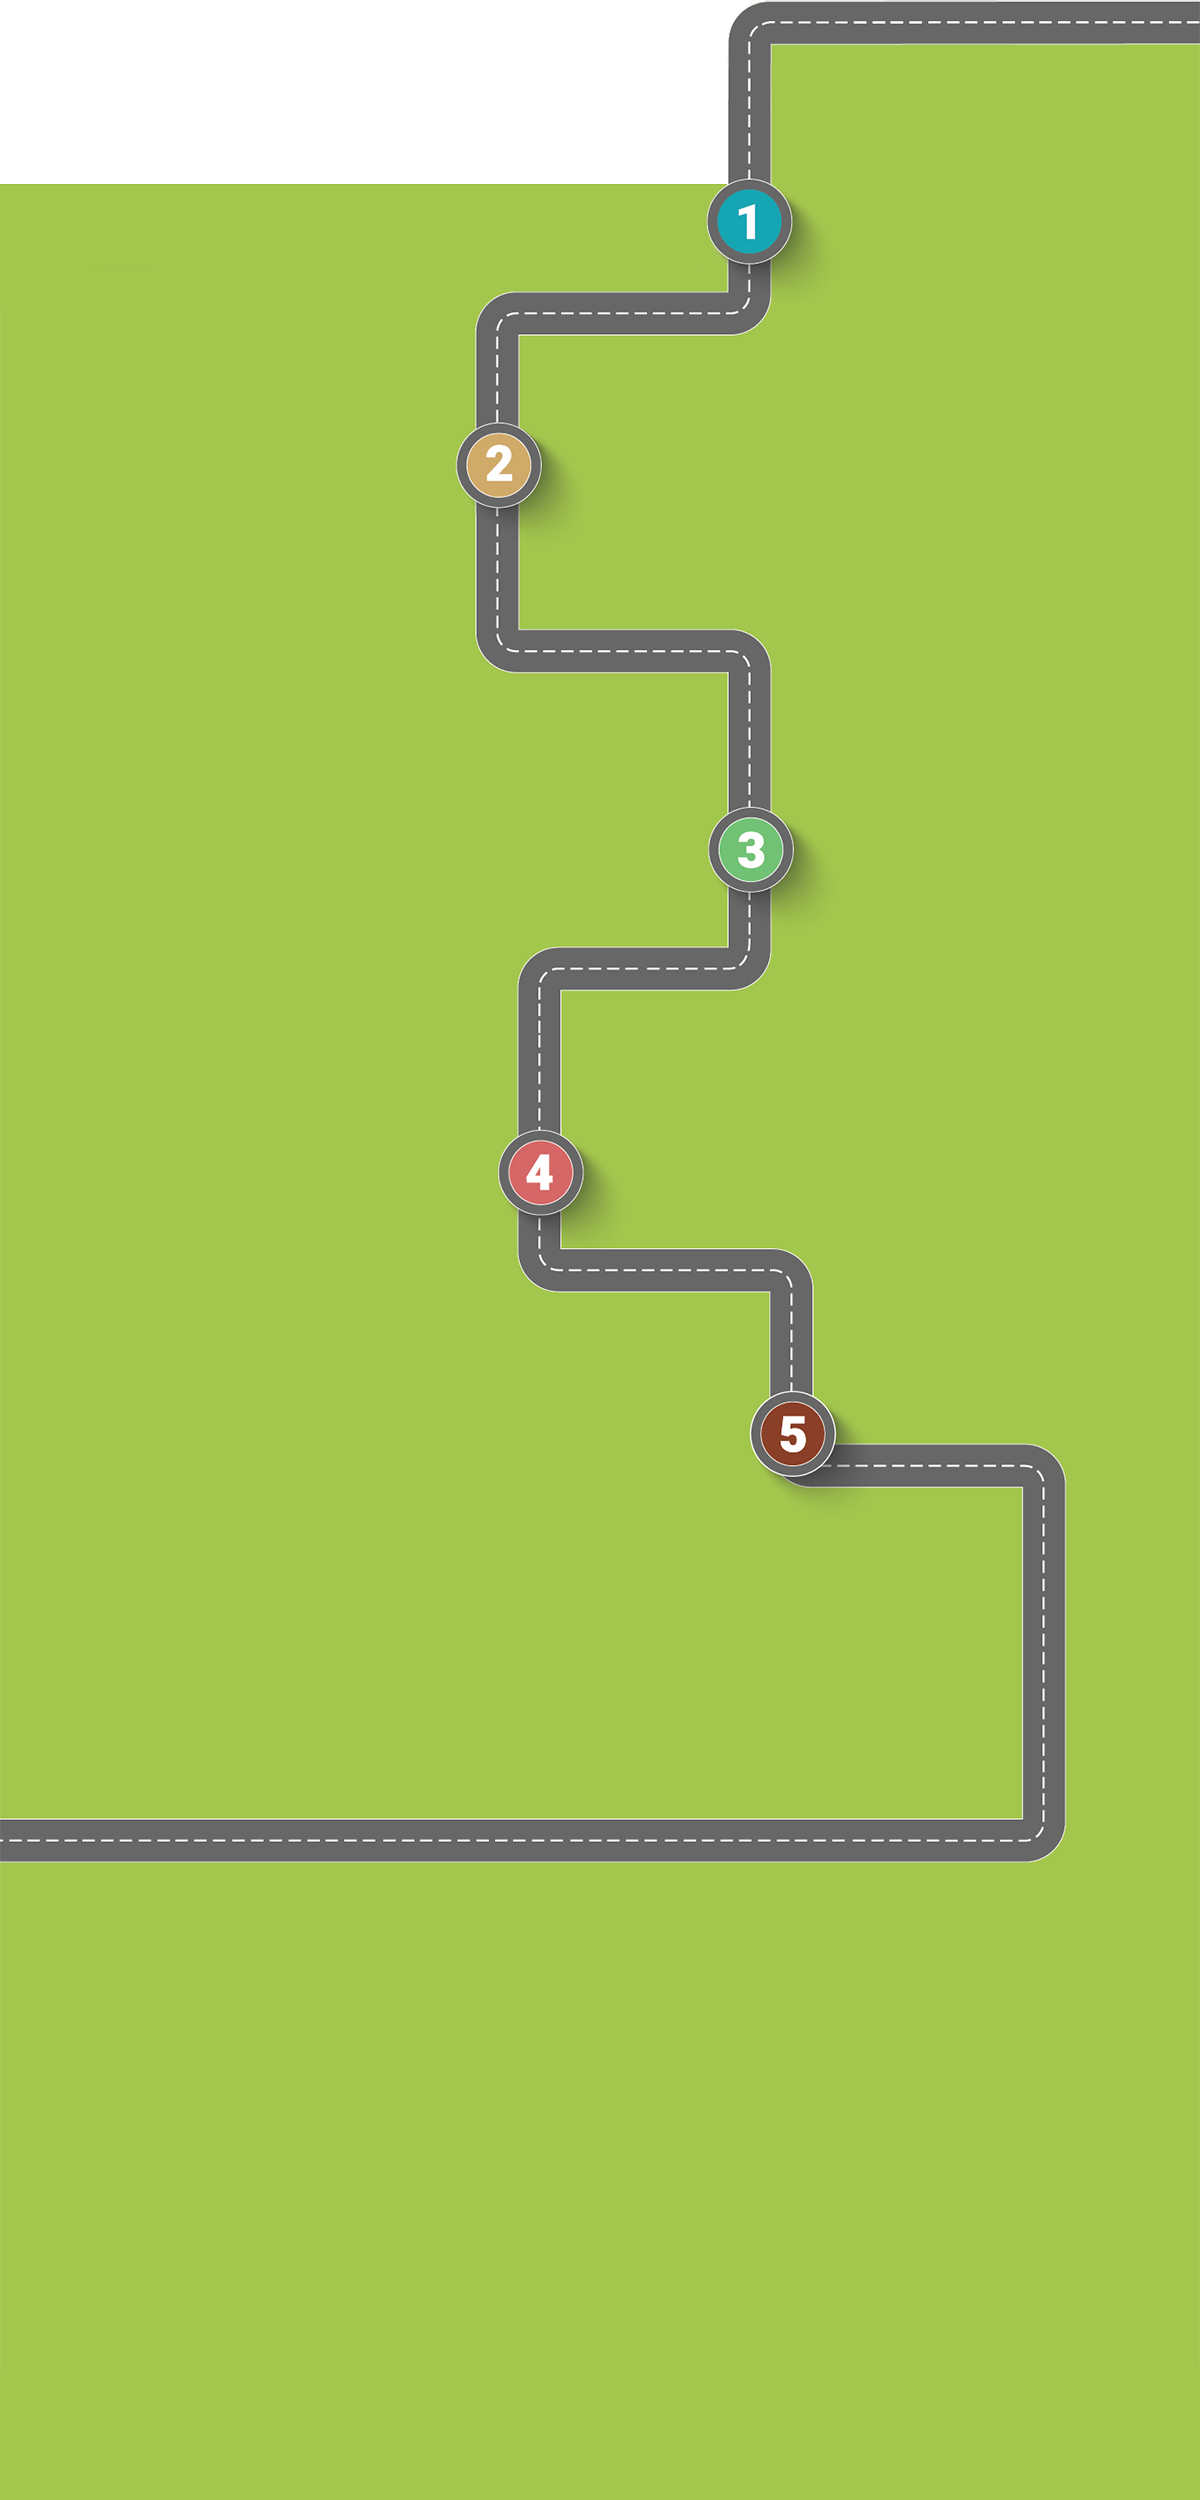
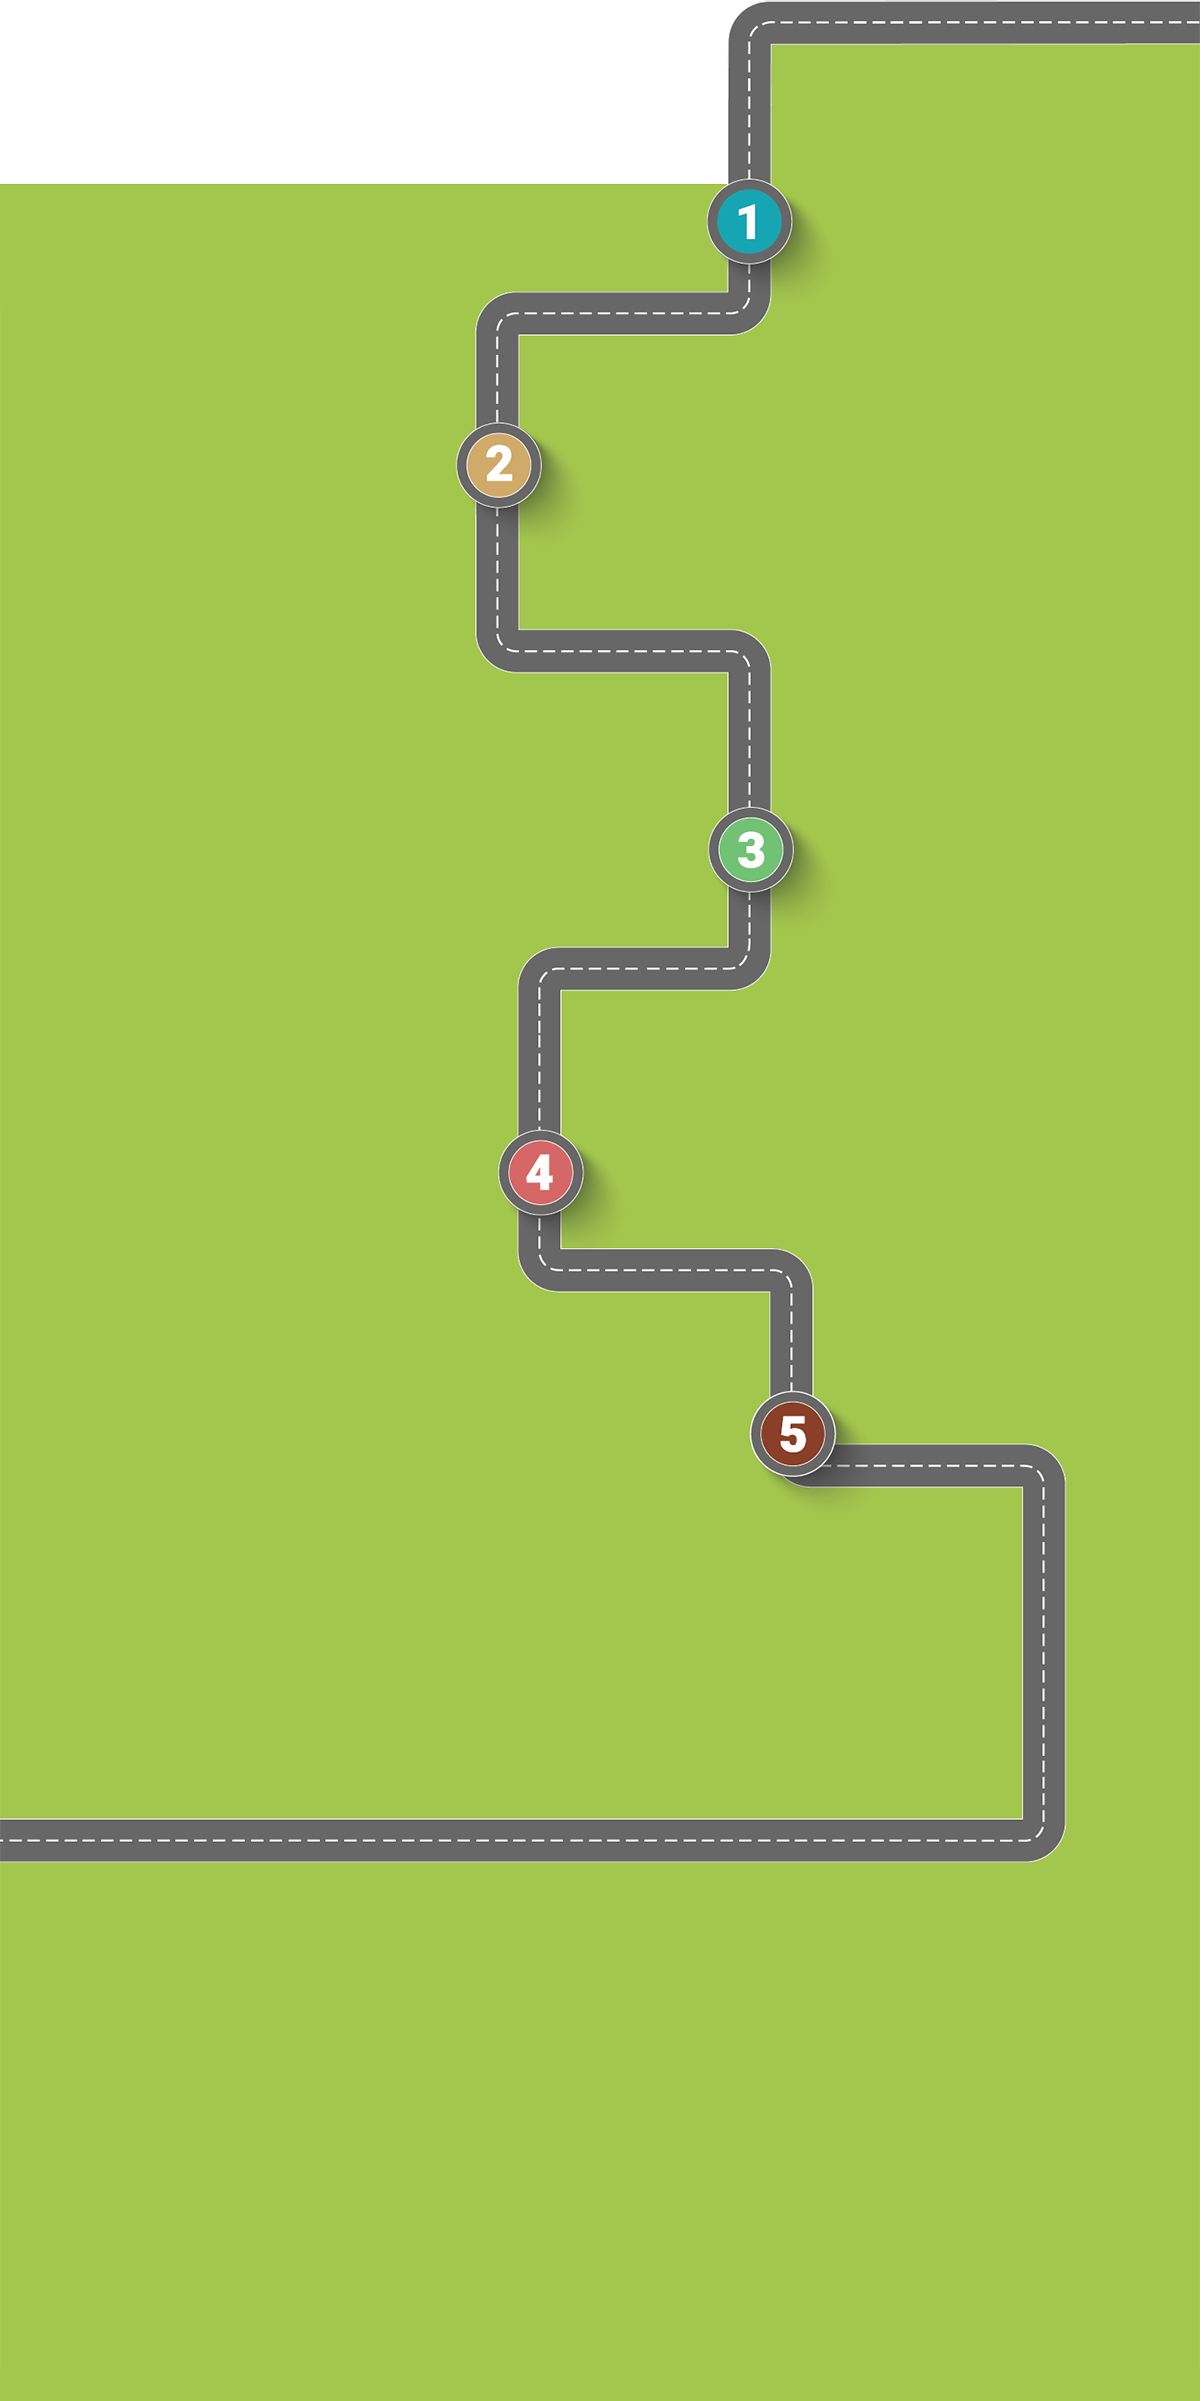
sdfewfe

diff --git a/js/home.js b/js/home.js
@@ -859,87 +859,88 @@ if ($('.blocks801').hasClass('active2')) {
 setTimeout(function() {
     $('.blocks800 .content-top').removeClass('transparent').addClass('animated slideInUp')
 
-}, 100)
+}, 10)
 
 setTimeout(function() {
       $('.blocks800 .content-middle').removeClass('transparent').addClass('animated  slideInUp')
 
-}, 200)
+}, 100)
 
 setTimeout(function() {
       $('.blocks800 .content-bottom').removeClass('transparent').addClass('animated  slideInUp')
 
-}, 300)
+}, 200)
 
 setTimeout(function() {
       $('.blocks800 .content-last').removeClass('transparent').addClass('animated  slideInUp')
 
-}, 400)
+}, 300)
 
 setTimeout(function() {
       $('.blocks800 .content-secondLast').removeClass('transparent').addClass('animated  slideInUp')
 
-}, 500)
+}, 400)
+
 setTimeout(function() {
       $('.blocks800 .content-thirdLast').removeClass('transparent').addClass('animated  slideInUp')
 
-}, 600)
+}, 500)
 
 setTimeout(function() {
       $('.blocks800 .content-fourthLast').removeClass('transparent').addClass('animated  slideInUp')
 
-}, 700)
+}, 600)
 
 setTimeout(function() {
       $('.blocks800 .content-fifthLast').removeClass('transparent').addClass('animated  slideInUp')
 
-}, 800)
+}, 700)
 
 setTimeout(function() {
       $('.blocks800 .content-sixthLast').removeClass('transparent').addClass('animated  slideInUp')
 
-}, 900)
+}, 800)
 setTimeout(function() {
       $('.blocks800 .content-seventhLast').removeClass('transparent').addClass('animated  slideInUp')
 
-}, 1000)
+}, 900)
 setTimeout(function() {
       $('.blocks800 .content-eighthLast').removeClass('transparent').addClass('animated  slideInUp')
 
-}, 1100)
+}, 1000)
 
 
 setTimeout(function() {
       $('.blocks800 .content-ninthLast').removeClass('transparent').addClass('animated bounceIn')
 
-}, 1400)
+}, 1100)
 
 setTimeout(function() {
       $('.blocks800 .content-tenthLast').removeClass('transparent').addClass('animated bounceIn')
 
-}, 1500)
+}, 1200)
 
 
 setTimeout(function() {
       $('.blocks800 .content-eleventhLast').removeClass('transparent').addClass('animated bounceIn')
 
-}, 1600)
+}, 1300)
 
 setTimeout(function() {
       $('.blocks800 .content-twelfthLast').removeClass('transparent').addClass('animated bounceIn')
 
-}, 1700)
+}, 1400)
 
 setTimeout(function() {
       $('.blocks800 .content-thirteenthLast').removeClass('transparent').addClass('animated bounceIn')
 
-}, 1800)
+}, 1500)
 
 
 setTimeout(function() {
       $('.blocks800 .content-fourthteenthLast').removeClass('transparent').addClass('animated bounceIn')
 
-}, 1900)
+}, 1600)
 
 //edit this elizabeth
 
@@ -947,28 +948,28 @@ setTimeout(function() {
 setTimeout(function() {
     $('.blocks801 .content-top').removeClass('transparent').addClass('animated slideInUp')
 
-}, 100)
+}, 500)
 
 setTimeout(function() {
       $('.blocks801 .content-middle').removeClass('transparent').addClass('animated  slideInUp')
 
-}, 200)
+}, 600)
 
 setTimeout(function() {
       $('.blocks801 .content-bottom').removeClass('transparent').addClass('animated  slideInDown')
 
-}, 300)
+}, 700)
 
 setTimeout(function() {
       $('.blocks801 .content-last').removeClass('transparent').addClass('animated fadeInUp')
 
-}, 400)
+}, 700)
 
 
   setTimeout(function() {
       $('.blocks802 .content-top').removeClass('transparent').addClass('animated scale-in-left')
 
-  }, 400)
+  }, 1000)
 
   setTimeout(function() {
         $('.blocks802 .content-middle').removeClass('transparent').addClass('animated  slideInUp')
@@ -991,7 +992,7 @@ setTimeout(function() {
             type: 'char'
         });
 
-  }, 300)
+  }, 900)
 
   setTimeout(function() {
       $('.blocks803 .content-top').removeClass('transparent').addClass('animated lightSpeedIn')

diff --git a/css/styles.css b/css/styles.css
@@ -14,6 +14,10 @@ body {
   top:321px;
 }
 
+.ex1, .ex2 {
+  max-width:85px;
+}
+
 .road2 {
   position: absolute;
   z-index: 0;
@@ -1355,7 +1359,7 @@ p {
 .greenInner3 {
   background: #a3c54c;
     position: absolute;
-    height: 309px;
+    height: 210px;
     bottom: 0px;
     z-index: 17;
     width: 100%;
@@ -1411,7 +1415,7 @@ justify-content: space-around;
 
 .blocks1000 {
   position: absolute;
-  top: 2538px;
+  top: 2545px;
   z-index: 999999;
   left: 300px;
 
@@ -1666,7 +1670,7 @@ justify-content: space-around;
   .greenInner2 {
 
         width: 600px;
-      
+
   }
 
 
@@ -1720,10 +1724,32 @@ justify-content: space-around;
     max-width: 120px;
   }
 
+  .blocks501 {
+    position: absolute;
+    z-index: 28;
+    top: 342px;
+    right: 789px;
+    display: -webkit-flex;
+    display: -moz-flex;
+    display: -ms-flexbox;
+    display: flex;
+    -webkit-flex-direction: column;
+    -moz-flex-direction: column;
+    -ms-flex-direction: column;
+    flex-direction: column;
+}
+
+.blocks500 {
+    position: absolute;
+    z-index: 28;
+    top: 635px;
+
+  }
+
   .blocks42 {
     position: absolute;
     z-index: 28;
-    top: 344px;
+    top: 295px;
     left: 50px;
     display: -webkit-flex;
     display: -moz-flex;
@@ -1738,6 +1764,109 @@ justify-content: space-around;
     padding-left: 1em;
     padding-bottom: 1em;
 
+}
+
+.colAbsolute {
+  left: -34px;
+}
+
+.colAbsolute {
+      right: -9px;
+
+    }
+
+    #red1 {
+      position: absolute;
+          right: -197px;
+          top: -30px;
+          max-width: 150px;
+    }
+
+    .text2 {
+    position: absolute;
+    right: -35px;
+    top: 222px;
+    max-width: 100px;
+}
+    .text1 {
+        position: absolute;
+        right: -173px;
+        top: 16px;
+        max-width: 105px;
+    }
+    #bubble2 {
+        max-width: 286px;
+        position: absolute;
+        right: -97px;
+        top: 314px;
+        max-height: 263px;
+    }
+#bText2 {
+    max-width: 227px;
+    position: absolute;
+    top: 303px;
+    color: white;
+    font-family: 'Roboto', sans-serif;
+    left: -114px;
+    min-width: 227px;
+}
+    #bubble1 {
+        max-width: 267px;
+        position: absolute;
+        right: -242px;
+        top: 101px;
+        max-height: 229px;
+    }
+
+    .blocks600 {
+    position: absolute;
+    z-index: 28;
+    top: 920px;
+    left: 50px;
+    display: -webkit-flex;
+    display: -moz-flex;
+    display: -ms-flexbox;
+    display: flex;
+    -webkit-justify-content: center;
+    -moz-justify-content: center;
+    -ms-justify-content: center;
+    justify-content: center;
+    overflow: hidden;
+    padding-right: 1em;
+    padding-left: 1em;
+    padding-bottom: 1em;
+    max-width: 350px;
+}
+
+    #red2 {
+    position: absolute;
+    right: -67px;
+    top: 179px;
+    min-width: 150px;
+}
+
+#bText1 {
+    max-width: 253px;
+    position: absolute;
+    right: -254px;
+    top: 87px;
+    color: white;
+    font-family: 'Roboto', sans-serif;
+}
+
+.colAbsolute2 {
+    position: absolute;
+    top: 163px;
+    z-index: 80;
+    display: -webkit-flex;
+    display: -moz-flex;
+    display: -ms-flexbox;
+    display: flex;
+    -webkit-flex-direction: column;
+    -moz-flex-direction: column;
+    -ms-flex-direction: column;
+    flex-direction: column;
+    left: -34px;
 }
   .blocks40 {
     position: absolute;
@@ -1763,6 +1892,20 @@ justify-content: space-around;
   #hideTablet {
     display:none;
   }
+
+  .house1 {
+    margin-right: 1em;
+    margin-top: 4em;
+    max-width: 118px;
+}
+
+.house {
+    margin-right: 1em;
+    max-width: 118px;
+}
+#m2 {
+    margin-top: 3em;
+}
 
   .sliding-background {
 
